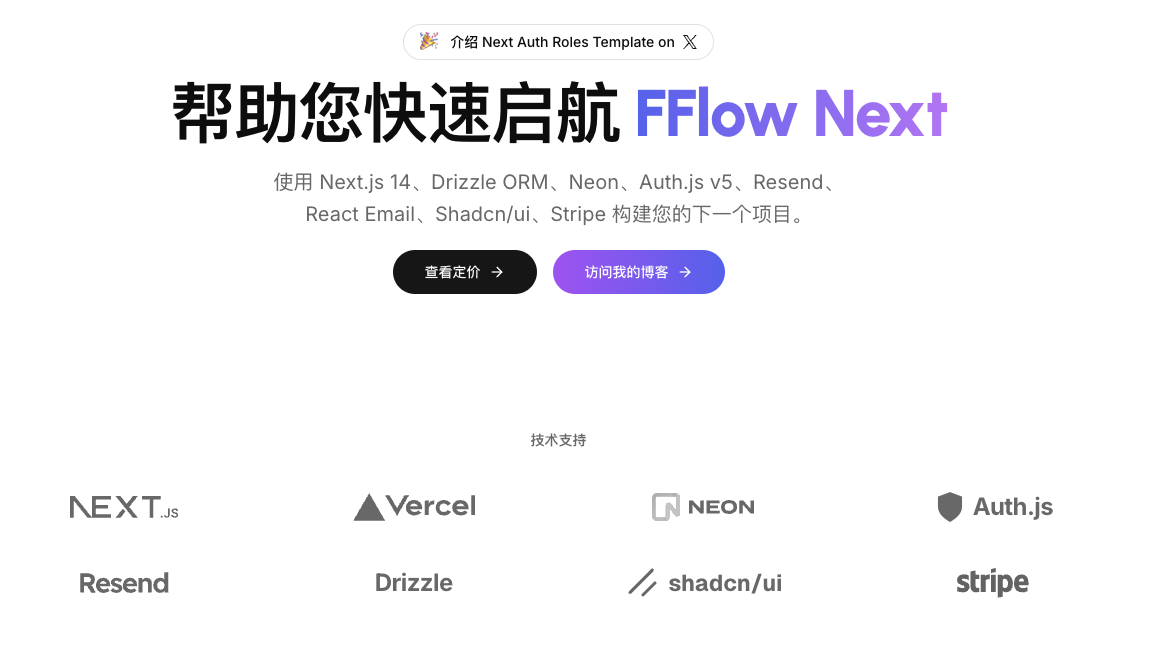
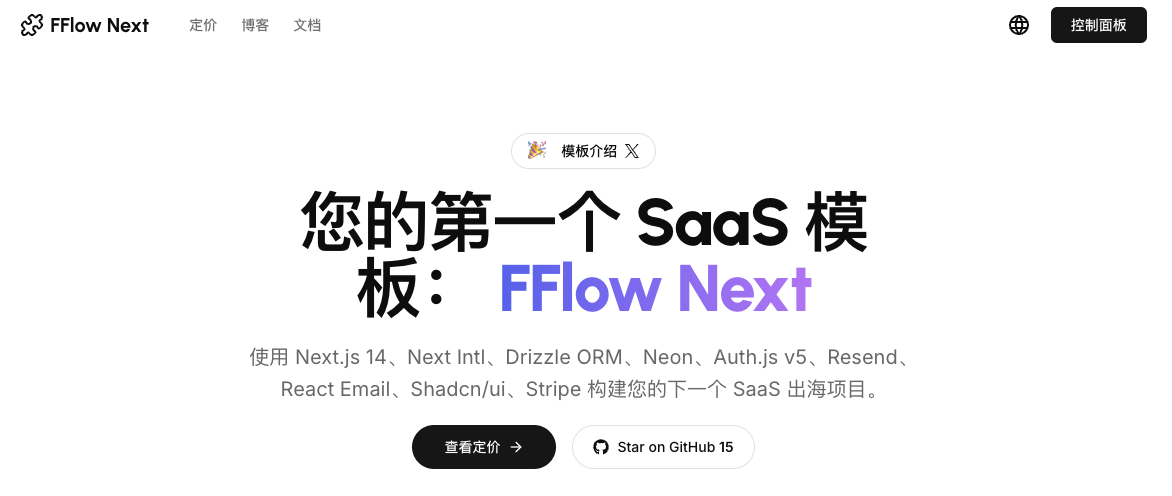
feat(hero): 优化首页介绍文案并更新多语言支持
更新了首页的介绍文案，并相应调整了多语言翻译内容。

- 调整了 Twitter 介绍链接的文案布局
- 更新了英文和中文版本的 "introducing" 文案
- 在项目描述中添加了 Next Intl 作为技术栈之一
- 优化了中文版本的项目描述，突出"出海"特性
- 简化了 "My Blog" 的中文翻译

diff --git a/src/components/sections/hero-landing.tsx b/src/components/sections/hero-landing.tsx
@@ -1,10 +1,11 @@
 import { useTranslations } from "next-intl";
-import Link from "@/components/link/link";
 
-import { Icons } from "@/components/shared/icons";
-import { buttonVariants } from "@/components/ui/button";
 import { env } from "@/env.mjs";
-import { cn } from "@/lib/utils";
+import { cn, nFormatter } from "@/lib/utils";
+import { buttonVariants } from "@/components/ui/button";
+import Link from "@/components/link/link";
+import { Icons } from "@/components/shared/icons";
+import { siteConfig } from "@/config/site";
 
 interface HeroLandingProps {
   locale: string;
@@ -41,8 +42,8 @@ export default async function HeroLanding({ locale }: HeroLandingProps) {
           target="_blank"
         >
           <span className="mr-3">🎉</span>
-          <span className="hidden md:flex">{t("introducing")}&nbsp;</span> Next
-          Auth Roles Template on <Icons.twitter className="ml-2 size-3.5" />
+          <span className="hidden md:flex">&nbsp;</span> {t("introducing")}{" "}
+          <Icons.twitter className="ml-2 size-3.5" />
         </Link>
 
         <h1 className="text-balance font-urban text-4xl font-extrabold tracking-tight sm:text-5xl md:text-6xl lg:text-[66px]">
@@ -75,20 +76,23 @@ export default async function HeroLanding({ locale }: HeroLandingProps) {
             <Icons.arrowRight className="size-4" />
           </Link>
           <Link
-            href={`https://www.ifb.me`}
-            prefetch={true}
+            href={siteConfig.links.github}
             target="_blank"
+            rel="noreferrer"
             className={cn(
               buttonVariants({
-                variant: "secondary",
+                variant: "outline",
                 size: "lg",
                 rounded: "full",
               }),
-              "gap-2 bg-gradient-to-r from-purple-500 to-indigo-500 text-white hover:from-purple-600 hover:to-indigo-600",
+              "px-5",
             )}
           >
-            <span>{t("goIFB")}</span>
-            <Icons.arrowRight className="size-4" />
+            <Icons.gitHub className="mr-2 size-4" />
+            <p>
+              <span className="hidden sm:inline-block">{t("starOn")}</span> GitHub{" "}
+              <span className="font-semibold">{nFormatter(stars)}</span>
+            </p>
           </Link>
         </div>
       </div>

diff --git a/README_CN.md b/README_CN.md
@@ -1,5 +1,5 @@
 <a href="https://www.fflowlink.com">
-  <img alt="FFlow Next: 您的第一个 SaaS 模板" src="public/_static/og_zh.jpg">
+  <img alt="FFlow Next: 您的第一个出海 SaaS 模板" src="public/_static/og_zh.jpg">
 </a>
 
 <p align="center">

diff --git a/README.md b/README.md
@@ -1,5 +1,5 @@
 <a href="https://www.fflowlink.com">
-  <img alt="FFlow Next: Your First SaaS Template" src="public/_static/og.jpg">
+  <img alt="FFlow Next: Your First Overseas SaaS Template" src="public/_static/og.jpg">
 </a>
 
 <p align="center">
